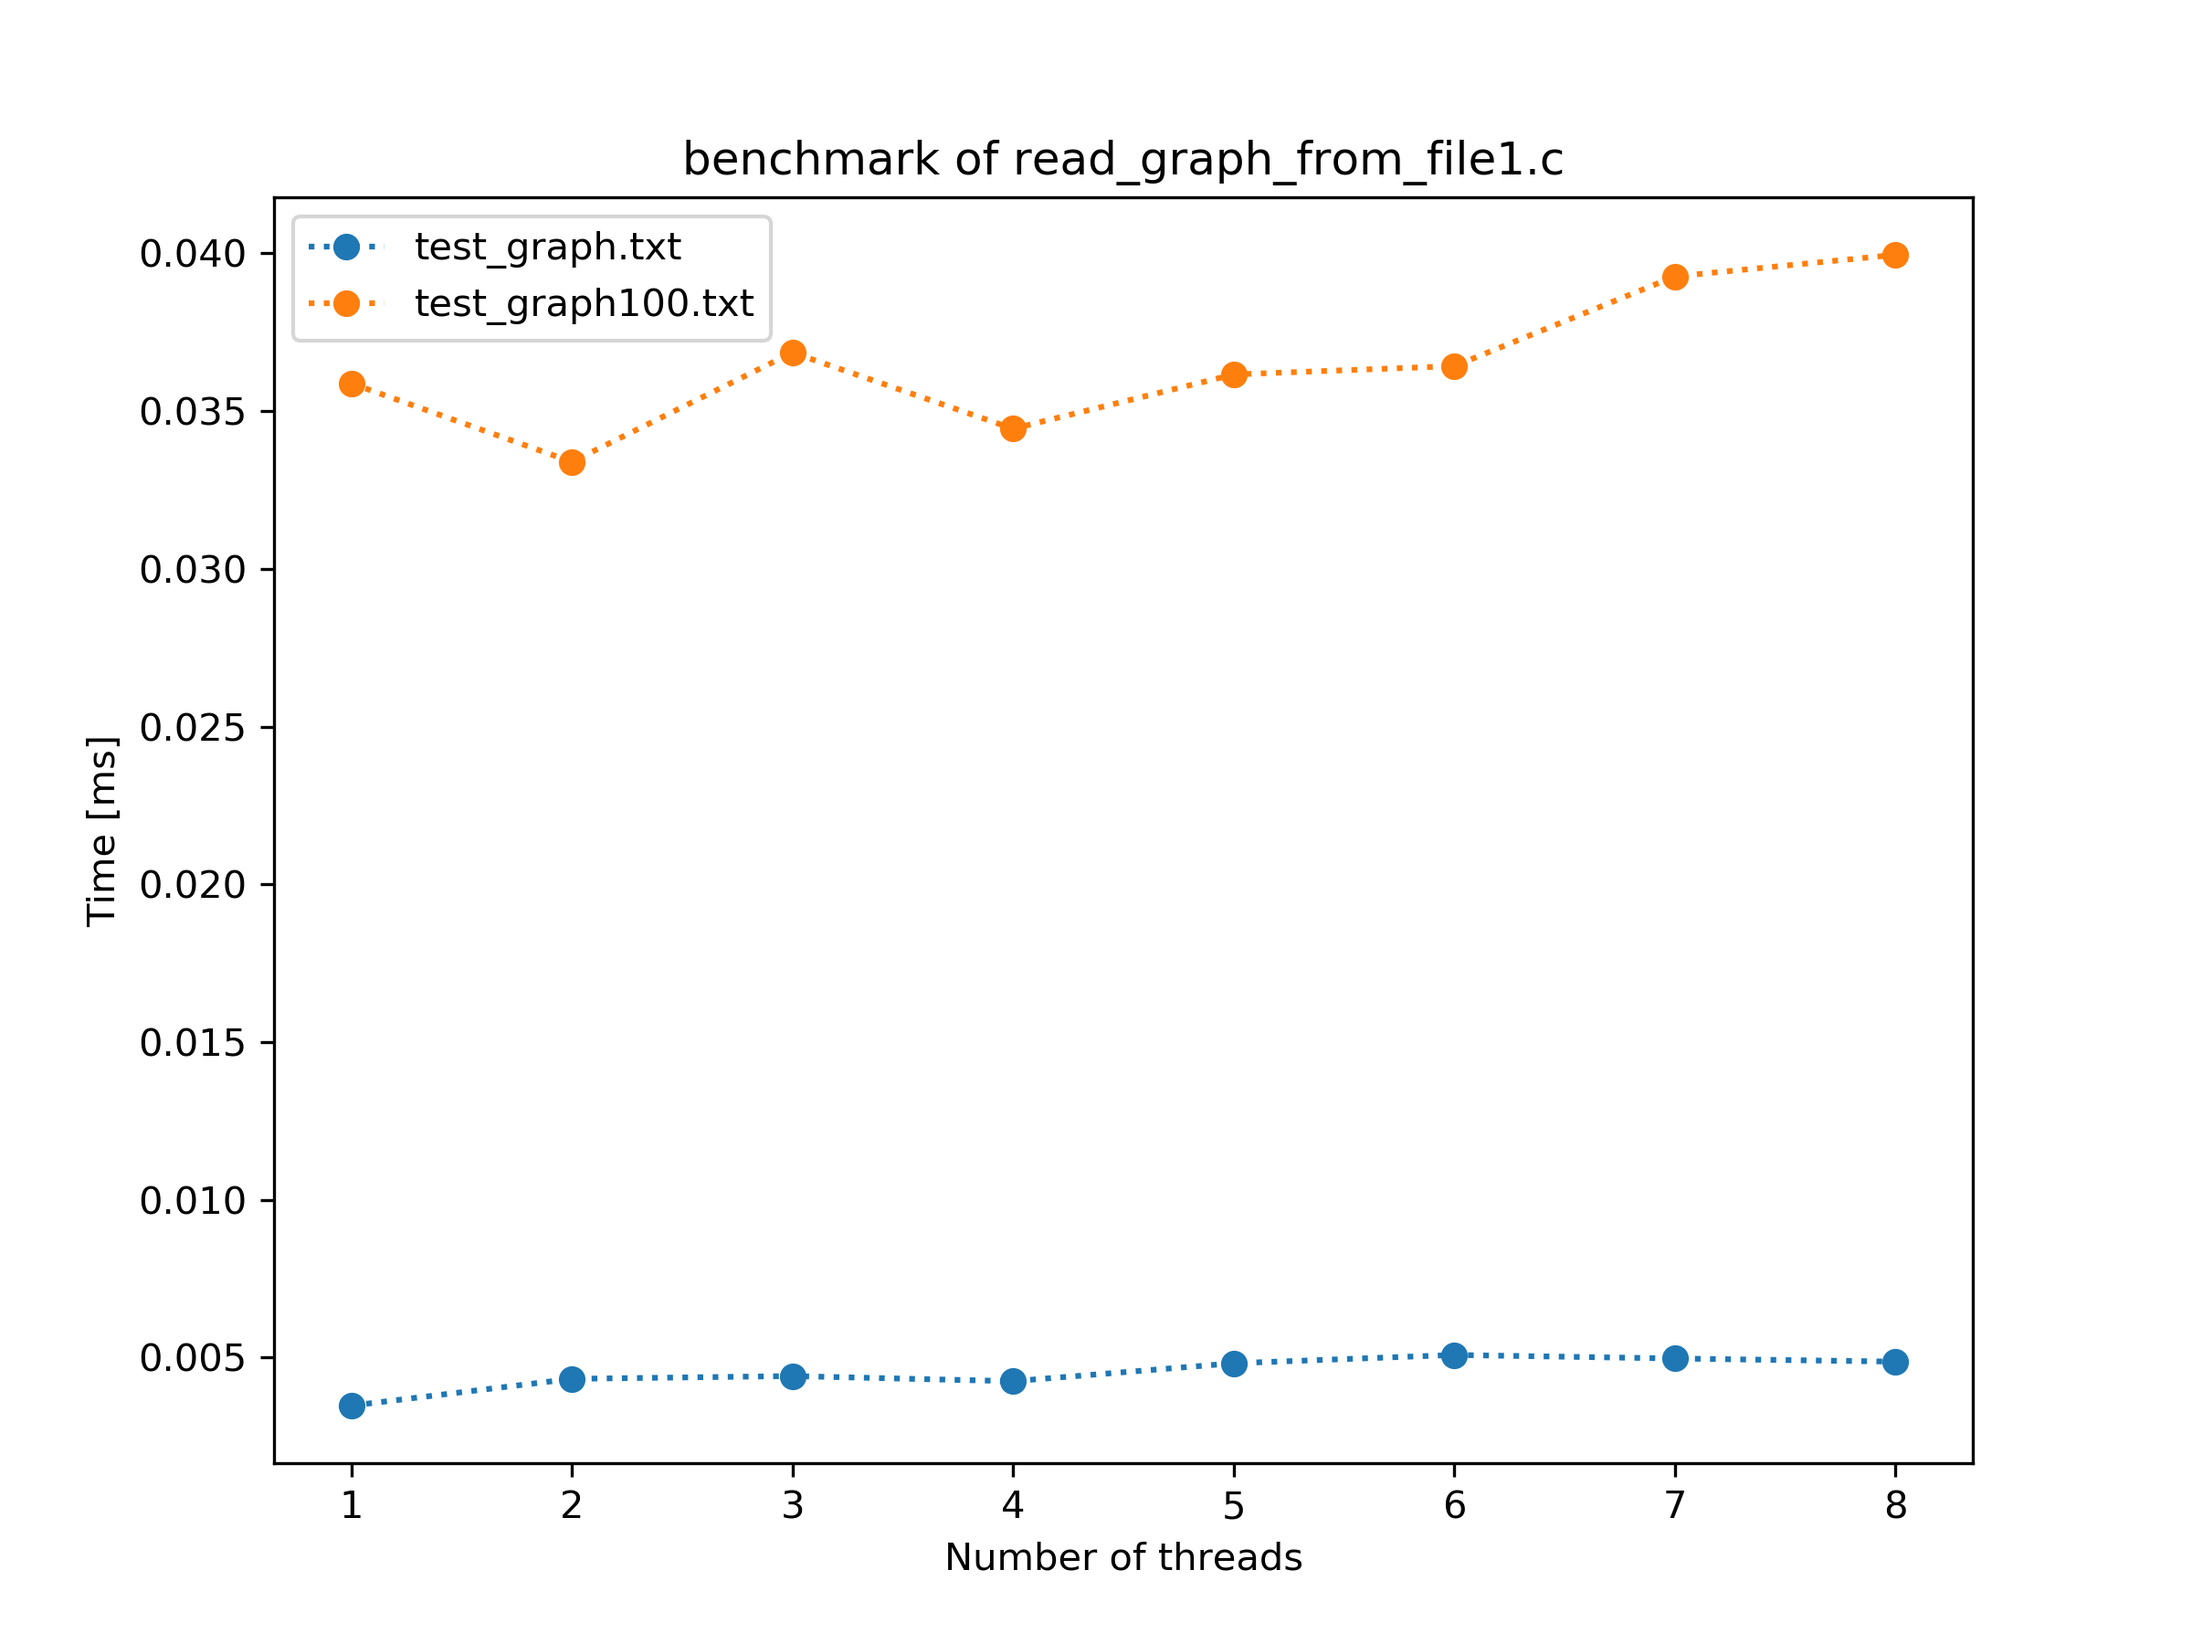
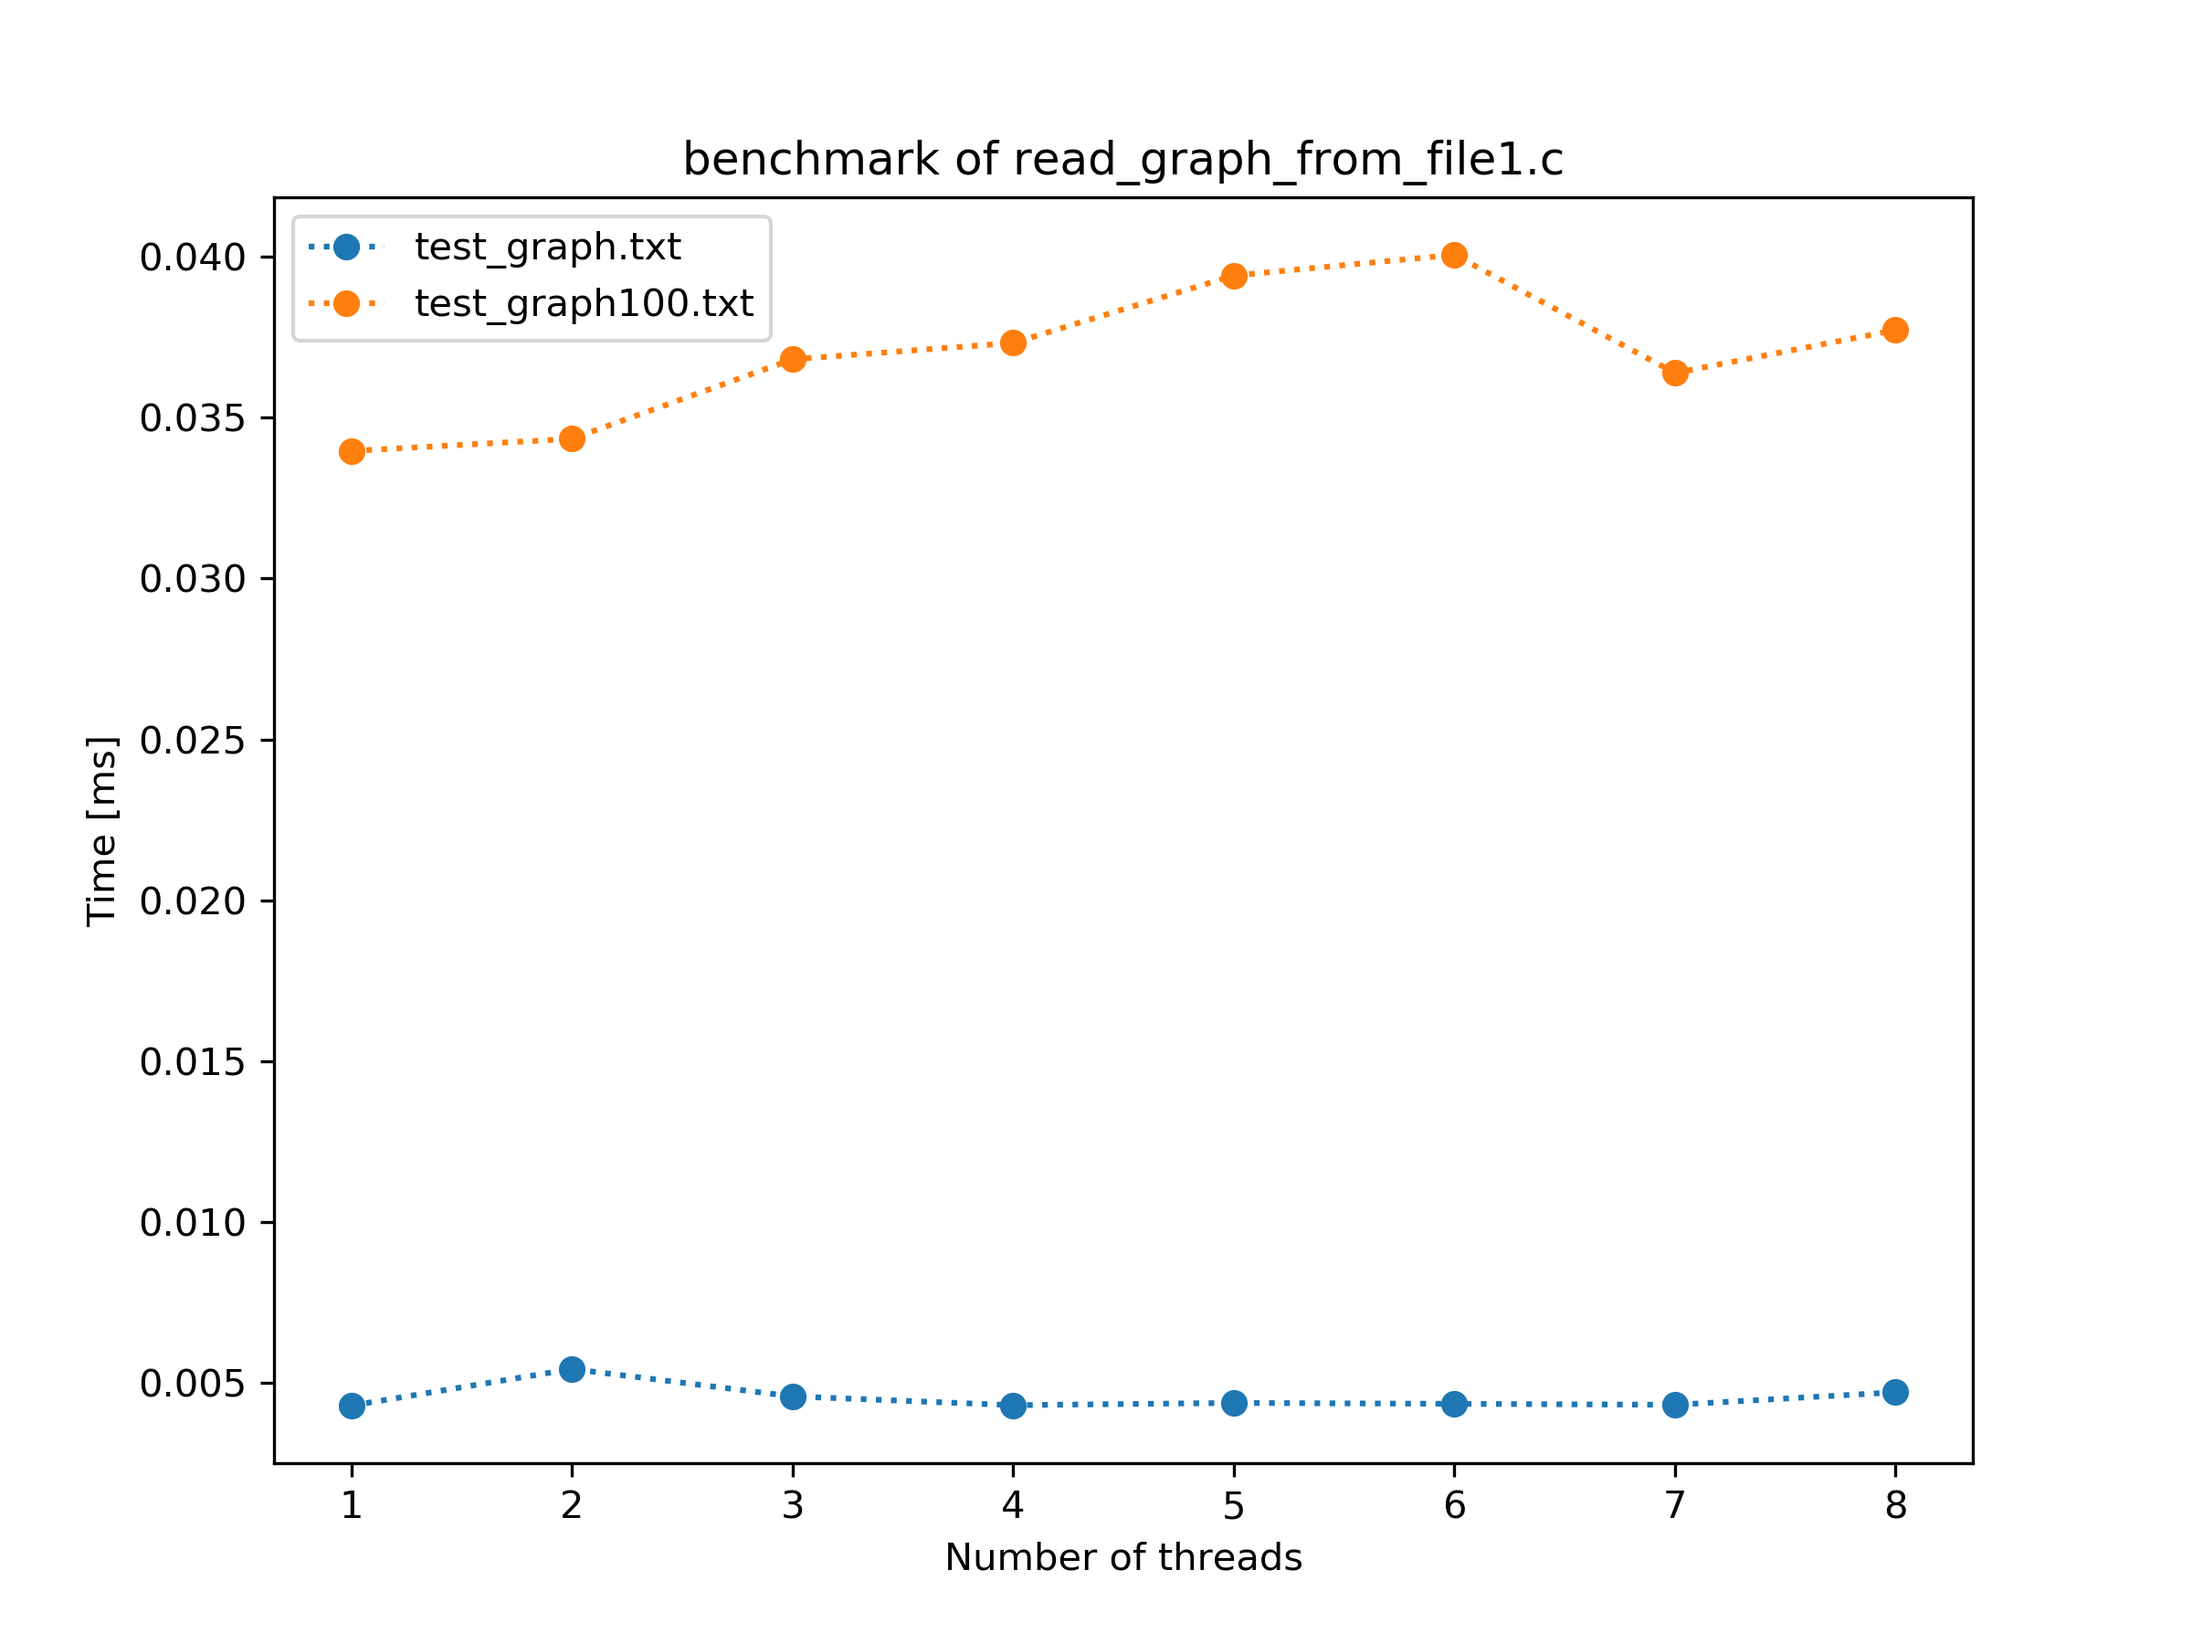
compatibility

diff --git a/IN4200_HE1_15224/src/count_mutual_links1.c b/IN4200_HE1_15224/src/count_mutual_links1.c
@@ -3,24 +3,20 @@
 int count_mutual_links1 (int N, char **table2D, int *num_involvements){
 
   int tot_mutual_links = 0;
-
-  int *links_from = (int *)calloc(N,sizeof(*links_from));
   int links_to;
 
   #if defined(_OPENMP)
   {
-    #pragma omp parallel for reduction(+: tot_mutual_links, links_from[:N], num_involvements[:N]) private(links_to)
+    //one of the two lines below should compile and run on an ifi machine
+    #pragma omp parallel for private(links_to) reduction(+: tot_mutual_links, num_involvements[:N])
+    //#pragma omp parallel for private(links_to) reduction(+: tot_mutual_links)
     for(size_t i = 0; i < N; i++){
-      memset(links_from, 0, N*sizeof(*links_from));
       links_to = 0;
       for(size_t j = 0; j < N; j++){
-        if (table2D[i][j]){ //if its 0 its False
-          links_to++;
-          links_from[j] = 1;
-        }
+          links_to += table2D[i][j];
       }
       for(size_t k = 0; k < N; k++){
-        if(links_from[k]){
+        if(table2D[i][k]){
           num_involvements[k] += links_to - 1;
         }
       }
@@ -30,16 +26,12 @@ int count_mutual_links1 (int N, char **table2D, int *num_involvements){
   #else
   {
     for(size_t i = 0; i < N; i++){
-      memset(links_from, 0, N*sizeof(*links_from));
       links_to = 0;
       for(size_t j = 0; j < N; j++){
-        if (table2D[i][j]){ //if its 0 its False
-          links_to++;
-          links_from[j] = 1;
-        }
+          links_to += table2D[i][j];
       }
       for(size_t k = 0; k < N; k++){
-        if(links_from[k]){
+        if(table2D[i][k]){
           num_involvements[k] += links_to - 1;
         }
       }
@@ -48,7 +40,5 @@ int count_mutual_links1 (int N, char **table2D, int *num_involvements){
   }
   #endif
 
-
-  free(links_from);
   return tot_mutual_links;
 }

diff --git a/IN4200_HE1_15224/src/top_n_webpages.h b/IN4200_HE1_15224/src/top_n_webpages.h
@@ -19,10 +19,6 @@
 #define MINIDX(oldidx, i, arr) (((arr[oldidx]) < (arr[i]))?(oldidx):(i))
 #define MAXIDX(oldidx, i, arr) (((arr[oldidx]) > (arr[i]))?(oldidx):(i))
 
-#pragma omp declare reduction(maximum : int : omp_out = omp_in > omp_out?omp_in:omp_out)
-
-//memmove(array + removeIndex, array + removeIndex + 1, (--logicalSize - removeIndex)*sizeof(*array));
-
 void calc_top_n_webpages(int num_webpages, int *num_involvements, int *top_results, int n);
 void top_n_webpages(int num_webpages, int *num_involvements, int n);
 void original_top_n_webpages(int num_webpages, int *num_involvements, int n);

diff --git a/IN4200_HE1_15224/hpc_analytics.py b/IN4200_HE1_15224/hpc_analytics.py
@@ -57,7 +57,7 @@ def main():
 
     run_benchmark("read_graph_from_file1.c", graph_files_rg1, n1, 8, "read1_test.png")
     run_benchmark("count_mutual_links1.c", graph_files_cm1, n1, 8, "count1_test.png")
-    run_benchmark("read_graph_from_file2.c", graph_files_rg2, n2, 8, "read2_test.png")
+    run_benchmark("read_graph_from_file2.c", graph_files_rg2, n2-300, 8, "read2_test.png")
     run_benchmark("count_mutual_links2.c", graph_files_cm2, n2, 8, "count2_test.png")
     run_benchmark("top_n_webpages.c", graph_files_tnw, n2, 8, "top_n_test.png")
     return 0

diff --git a/IN4200_HE1_15224/src/count_mutual_links2.c b/IN4200_HE1_15224/src/count_mutual_links2.c
@@ -7,7 +7,9 @@ int count_mutual_links2 (int N, int N_links, int *row_ptr, int *col_idx, int *nu
 
   #if defined(_OPENMP)
   {
+    //one of the two lines below should compile and run on an ifi machine
     #pragma omp parallel for reduction(+:tot_mutual_links, num_involvements[:N]) private(counter)
+    //#pragma omp parallel for private(counter) reduction(+:tot_mutual_links)
     for(int i = 0; i < N; i++){
       counter = row_ptr[i+1] - row_ptr[i];
       tot_mutual_links += 0.5*counter*(counter-1);
